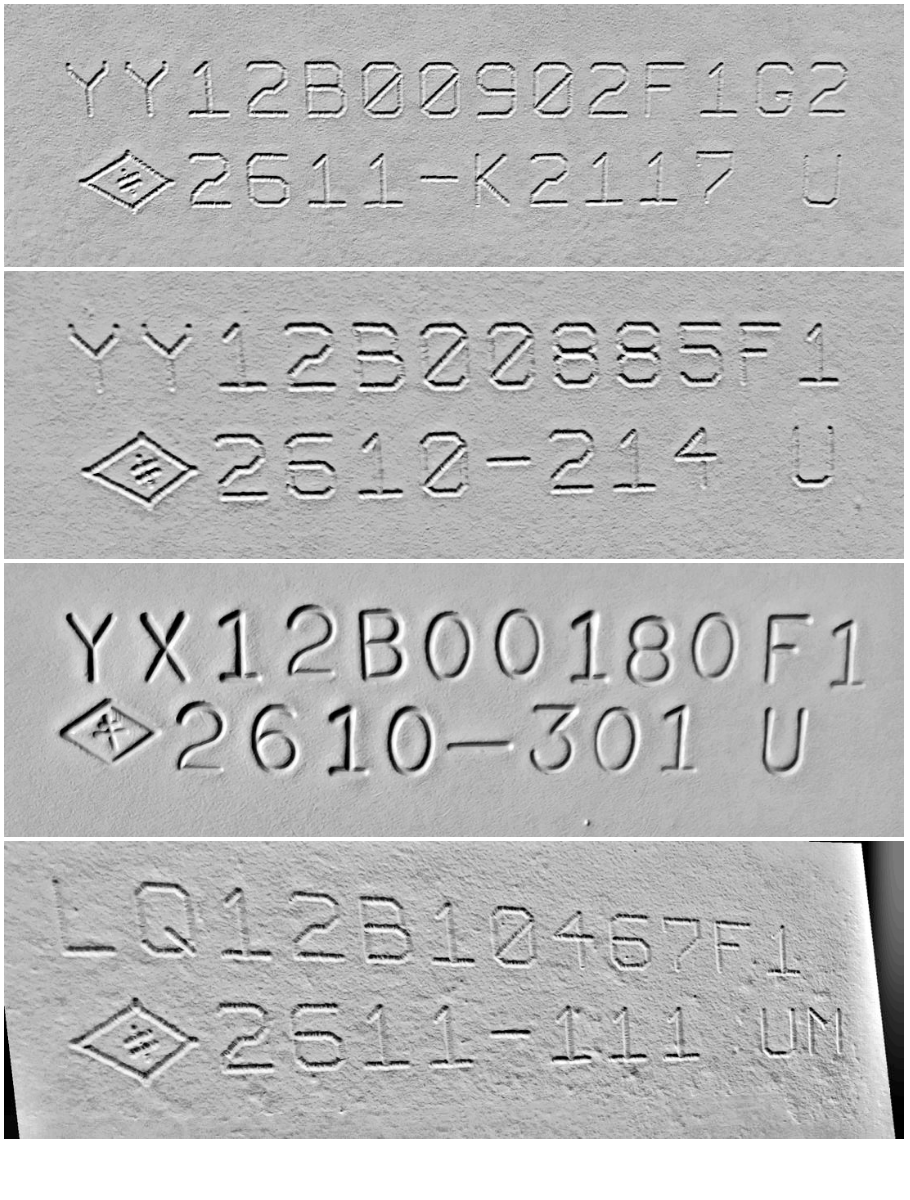
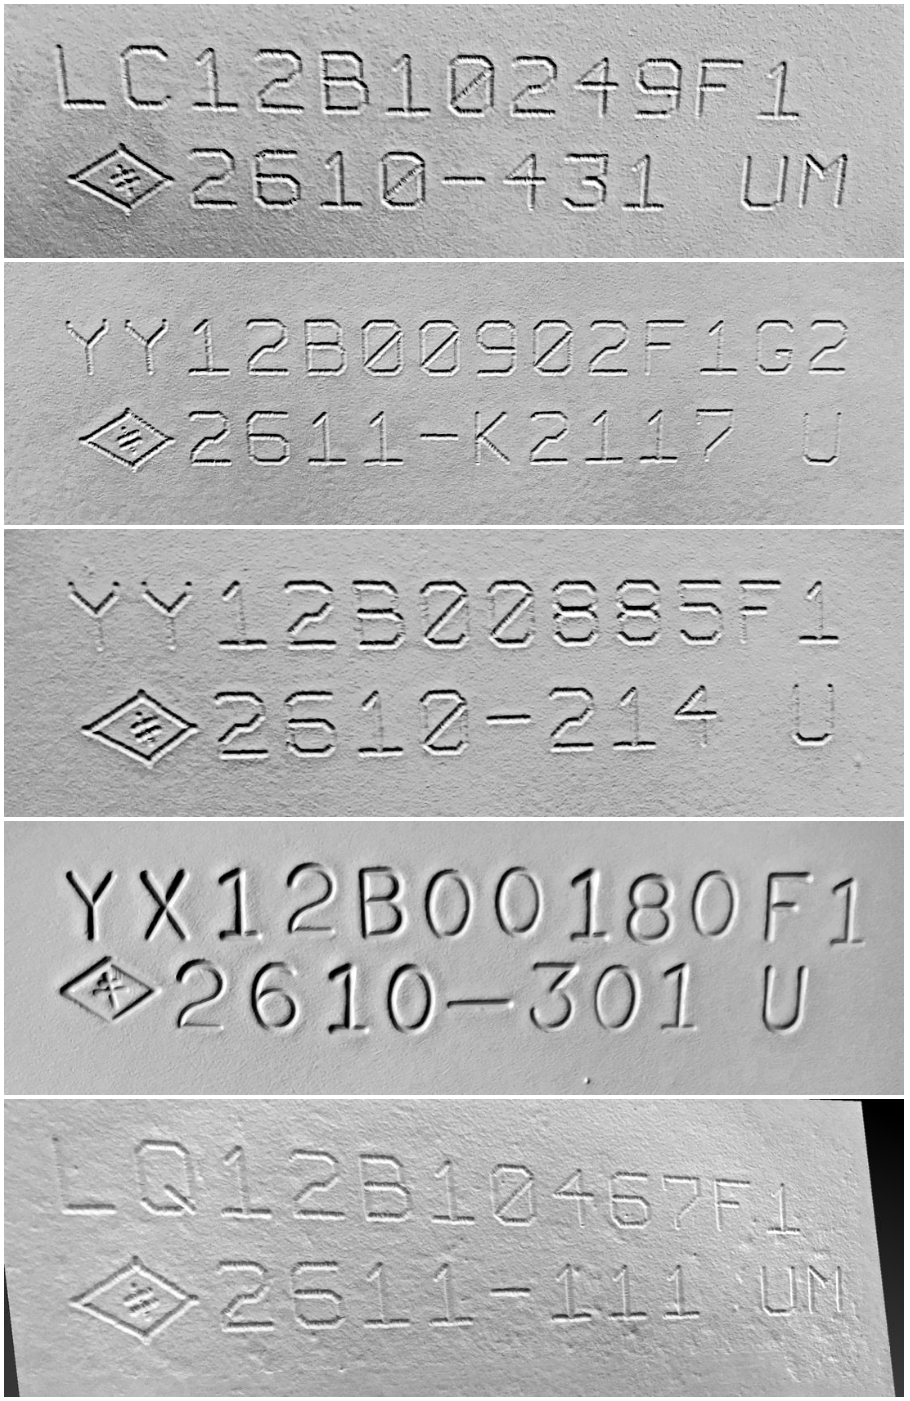
刻印写真の表示：光のむらを2次の面で取って字のまわりの白い丸を無くす
Claude-Session: https://claude.ai/code/session_01HFT8mKpU6VM34VUtTFDf1R

diff --git a/CLAUDE.md b/CLAUDE.md
@@ -36,7 +36,7 @@
 - **確認用の写真を大きく**（10/24 ユーザー：読めなくて確認する時に写真が小さい）：撮るだけ一覧で 候補/刻印なし/失敗 の行は、切り出し（`q.thumb`）＋凹凸強調（`q.enh`）を全幅で表示、切り出しが無ければ写真全体（`q.full`＝長辺1000）。単発読取のプレビューも2枚を縦に全幅。`data-zoom` の画像をタップで全画面（`#lb`、「拡大 ×1→×2→×3」でスクロール）
 - **撮るだけ一覧の小さい写真**（11/3 ユーザー：刻印との照らし合わせが出来ない）：特定できた行も切り出しを横いっぱいに表示（`.qbig`、候補行と同じ）。切り出しがまだ無い行だけ小さい `.qt`（contain）。タップで全画面拡大
 - **使いやすく**（11/5 ユーザー：撮ったら自動で記録・一覧を見やすく・撮影をもっと楽に）：①**自動記録**＝`apiQueueAdd` の4つ目に確認者（画面の me）→キュー「確認者」列。確定して写真をひも付けた時（`apiQueueCrop`／候補を選んだ `apiQueuePick`）に `autoRecord_`＝目的が塗装完了・出荷・確認者あり・その号機のその工程が未記録なら `queueRecord_` で記録（鍵の中。同じ号機の2枚目は記録しない）。違えば一覧の「取消」。②**一覧の「やること」**（**11/5 ユーザー「今はまだいらない」で非表示**＝`TODO_ON`=false、true で復活。当初は最初のタブ。`listMode`=todo、localStorage `trace.todoV1` で一度だけ切替）＝`todoLists`：あさってまで出荷の未塗装／Excel塗装予定を過ぎた未塗装（出荷はまだ先）／明日まで出荷で塗装済み・塗装後チェックまだ。タブに件数（赤）。タイルの号機の字を大きく ③**連続撮影**＝「刻印を撮る」でカメラを開いたまま（`openBurst`、getUserMedia 4K→長辺2000の1コマ）大きい丸シャッターを押すたびに `queueAddCanvas`（撮影日時＝その時刻）。白く光る＋振動、撮った枚数と最後の写真、ライト（torch 対応機のみ）、「終わる」。カメラが使えなければ今まで通りのカメラアプリ。「カメラアプリで撮る」ボタンも残す。撮る前に確認者が未選択なら `needMe`
-- **刻印写真を濃く表示**（11/5 ユーザー：薄くて読みにくい）：画面に出す時だけ、class `stamp` の img（撮るだけ一覧の切り出し・詳細の刻印写真。凹凸強調と写真全体は除く）を `punchSrc`＝白黒にして、大きくぼかした明るさ（`blurred`、長辺/24）で割って光のむらを消し（11/5 ユーザー「光の具合で見にくい、明るさ補正して揃えれる？」）、地の色（中央値）をどの写真も0.72・1%を黒・99.5%を白にそろえる（切り出しの黒いすき間は除外。見本 `docs/stamp_even.png`）（`document` の load を capture で拾う、`STAMP_PUNCH` に結果を覚える）。拡大表示も濃い方。ドライブの写真はそのまま
+- **刻印写真を濃く表示**（11/5 ユーザー：薄くて読みにくい）：画面に出す時だけ、class `stamp` の img（撮るだけ一覧の切り出し・詳細の刻印写真。凹凸強調と写真全体は除く）を `punchSrc`＝白黒にして、光のむら（地の部分＝明るさ25〜90%の画素に2次の面を最小二乗で当てはめ。11/5 前はぼかし（`blurred`）で求めていて字の影に引っぱられ字のまわりに白い丸が出た＝LC12B10249F1_431）で割って消し（11/5 ユーザー「光の具合で見にくい、明るさ補正して揃えれる？」）、地の色（中央値）をどの写真も0.72・1%を黒・99.5%を白にそろえる（切り出しの黒いすき間は除外。見本 `docs/stamp_even.png`）（`document` の load を capture で拾う、`STAMP_PUNCH` に結果を覚える）。拡大表示も濃い方。ドライブの写真はそのまま
 - **出荷日の表示**（10/24 ユーザー：撮ったら出荷日が出るように）：`shipLabel`＝「出荷 10/28(水) あと4日」（今日・明日＝赤、3日以内＝オレンジ、過ぎ＝灰）。詳細の号機の下・撮るだけ一覧の特定済みの行（＋出荷先）・候補ボタンに出す
 - **詳細画面の表示**：一覧の行データ（`apiList` の行にねじ穴数 holes も入れてある＝開いた瞬間から全数OKが押せる）（または前回開いた内容 `armCache`）で即表示 → `apiArm` が届いたら工程ログ・記録を差し替え（入力中の値は残す）。`apiArm` は工程記録を1回だけ読む
 - **工程記録の二度押し防止**（10/21 実データで同じ写真の塗装完了が同じ分に2件×7組）：`apiSaveStep` はロックの中で、同じ号機・工程に「同じ写真ID」か「2分以内」の有効な記録があれば足さずに `dupSkipped`。画面は `stepSaving` 中は押しても無視。撮るだけ一覧の「タップを記録」(qopen) は切り出し写真IDをタップ記録に引き継ぐ
